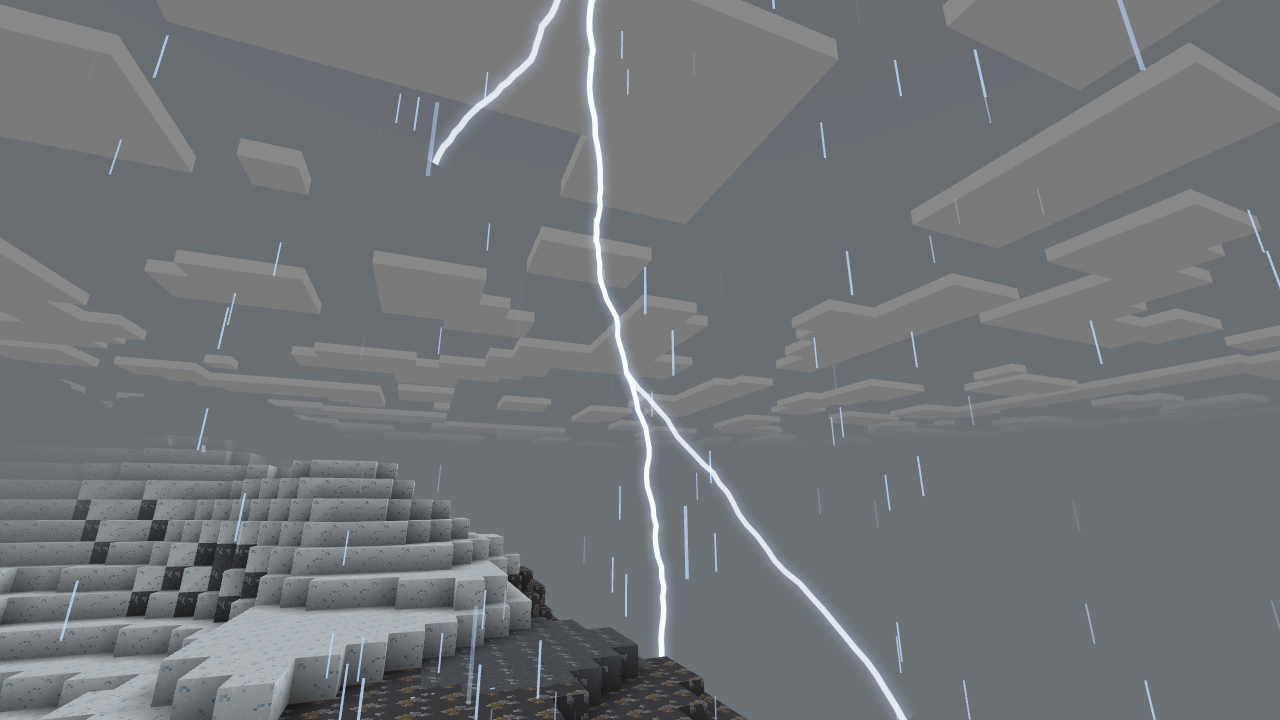
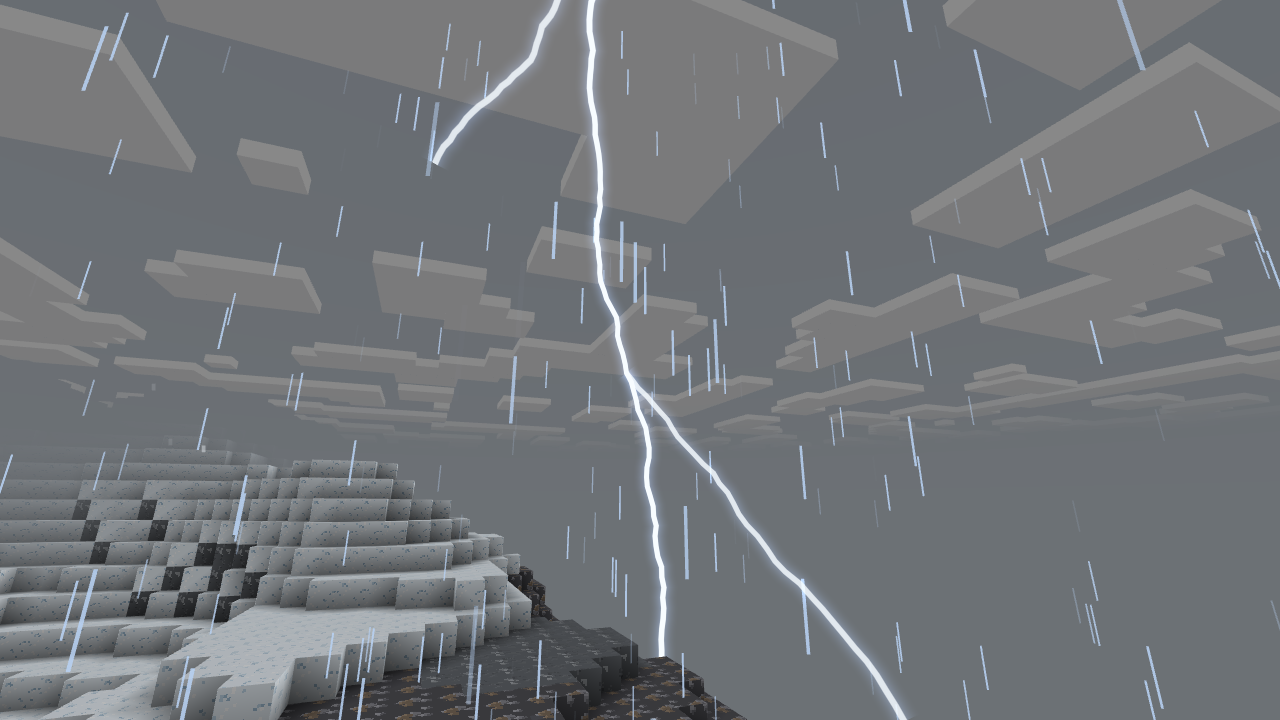
M12c: rain e2e isolates rain with a clear control; cache heightmap texture; evict heightmap columns
Claude-Session: https://claude.ai/code/session_01JQ62XznmM2AD8JKHq9hFqh

diff --git a/tests/e2e/m12.spec.ts b/tests/e2e/m12.spec.ts
@@ -675,32 +675,47 @@ test('M12c weather, rain streaks animation, desert climate check, and thundersto
   });
   await waitForStreamingIdle(page, 120_000);
 
-  await page.evaluate(() => {
+  // Clouds off and the time of day fixed: the only thing that may change between the two frames
+  // is the precipitation. A clear-weather control taken the same way proves that.
+  const stand = await page.evaluate(() => {
     const api = window.__blockcraft!;
-    api.setWeather!('rain');
-    api.setTimeOfDay!(6000);
+    api.setClouds!('off');
     api.look!(0, 0.2); // Look up slightly into falling rain streaks
+    const p = api.getPlayer!().pos;
+    return [p[0], p[1], p[2]] as [number, number, number];
   });
 
-  // Render initial rain frame
-  const rainFrame1 = await assertAndSaveScreenshot({
-    name: 'm12-rain-frame-1',
-    milestone: 'M12c',
-  });
+  // Each frame is taken from the same camera pose: ticking also runs player physics, which would
+  // move the camera and change every pixel of the terrain.
+  const framePair = async (state: 'clear' | 'rain', name: string) => {
+    const place = async (): Promise<void> => {
+      await page.evaluate(async (pos) => {
+        const api = window.__blockcraft!;
+        api.teleport!(pos[0], pos[1], pos[2], 0, 0.2);
+        await new Promise((r) => requestAnimationFrame(() => requestAnimationFrame(r)));
+      }, stand);
+    };
+    await page.evaluate((weather) => {
+      const api = window.__blockcraft!;
+      api.setWeather!(weather);
+      api.setTimeOfDay!(6000);
+    }, state);
+    await place();
+    const first = await assertAndSaveScreenshot({ name: `${name}-1`, milestone: 'M12c' });
+    // Advance 4 ticks (0.2s of falling rain streaks)
+    await page.evaluate(async () => {
+      await window.__blockcraft!.tick!(4);
+    });
+    await place();
+    const second = await assertAndSaveScreenshot({ name: `${name}-2`, milestone: 'M12c' });
+    return diffFraction(first, second);
+  };
 
-  // Advance time by 4 ticks (0.2s of falling rain streaks)
-  await page.evaluate(async () => {
-    const api = window.__blockcraft!;
-    await api.tick!(4);
-    await new Promise((r) => requestAnimationFrame(() => requestAnimationFrame(r)));
-  });
+  const clearDiff = await framePair('clear', 'm12-clear-control');
+  console.log('m12c plains clear-weather control frame diff fraction:', clearDiff);
+  expect(clearDiff).toBeLessThan(0.005); // nothing but rain may move between frames
 
-  const rainFrame2 = await assertAndSaveScreenshot({
-    name: 'm12-rain-frame-2',
-    milestone: 'M12c',
-  });
-
-  const rainDiff = diffFraction(rainFrame1, rainFrame2);
+  const rainDiff = await framePair('rain', 'm12-rain-frame');
   console.log('m12c plains rain frame diff fraction:', rainDiff);
   expect(rainDiff).toBeGreaterThan(0.02); // consecutive frames differ by > 2%
 
@@ -710,18 +725,19 @@ test('M12c weather, rain streaks animation, desert climate check, and thundersto
   expect(plainsStats.weather.activeParticles.rain).toBeGreaterThan(0);
 
   // 2. Desert biome: zero precipitation particles near player (use the stat)
-  await page.evaluate(async () => {
+  const desertBiome = await page.evaluate(async () => {
     const api = window.__blockcraft!;
     const pos = api.locate!('biome', 'desert', [0, 64, 0]);
-    if (pos) {
-      // Step into the interior of the located dry biome (desert/badlands) to avoid border particles
-      const destX = pos[0];
-      const destZ = pos[2] - 50;
-      const groundY = (api.getHeight ? api.getHeight(destX, destZ) : pos[1]) || 70;
-      api.teleport!(destX + 0.5, groundY + 1.6, destZ + 0.5);
-      await api.waitForTerrain!(1);
-    }
+    if (!pos) throw new Error('no desert biome found near the origin');
+    // Step into the interior of the located dry biome (desert/badlands) to avoid border particles
+    const destX = pos[0];
+    const destZ = pos[2] - 50;
+    const groundY = (api.getHeight ? api.getHeight(destX, destZ) : pos[1]) || 70;
+    api.teleport!(destX + 0.5, groundY + 1.6, destZ + 0.5);
+    await api.waitForTerrain!(1);
+    return api.getBiome!(destX, destZ);
   });
+  expect(desertBiome).toBe('desert');
   await waitForStreamingIdle(page, 120_000);
 
   const desertStats = await page.evaluate(async () => {
@@ -736,6 +752,7 @@ test('M12c weather, rain streaks animation, desert climate check, and thundersto
   await page.evaluate(async () => {
     const api = window.__blockcraft!;
     const pos = api.locate!('biome', 'plains', [0, 64, 0]) ?? [0, 80, 0];
+    api.setClouds!('fancy'); // the rain step above turned them off
     api.setWeather!('thunder');
     api.setTimeOfDay!(6000);
     // Hover 25 blocks up so a nearer ridge does not hide the strike point behind it.

diff --git a/src/render/weather.ts b/src/render/weather.ts
@@ -374,7 +374,7 @@ void main() {
 }
 `;
 
-export const PARTICLE_COUNT = 1024;
+export const PARTICLE_COUNT = 2048;
 export const SPLASH_COUNT = 256;
 const HEIGHTMAP_SIZE = 64; // 64x64 blocks around camera
 
@@ -419,6 +419,10 @@ export class WeatherRenderer {
   private readonly heightmapData = new Uint8Array(HEIGHTMAP_SIZE * HEIGHTMAP_SIZE * 4);
   private heightmapOriginX = -32;
   private heightmapOriginZ = -32;
+  // What the texture currently holds, so it is only rebuilt when something it depends on changed
+  private heightmapWorld: World | null = null;
+  private heightmapVersion = -1;
+  private heightmapBuilt = false;
 
   // CPU particle structures for rapid stats evaluation
   private readonly particles: {
@@ -581,6 +585,15 @@ export class WeatherRenderer {
     const gl = this.glWrapper.gl;
     const originX = Math.floor(cameraPos[0]) - HEIGHTMAP_SIZE / 2;
     const originZ = Math.floor(cameraPos[2]) - HEIGHTMAP_SIZE / 2;
+    if (
+      this.heightmapBuilt &&
+      this.heightmapWorld === world &&
+      this.heightmapVersion === weatherManager.heightmap.version &&
+      originX === this.heightmapOriginX &&
+      originZ === this.heightmapOriginZ
+    ) {
+      return;
+    }
     this.heightmapOriginX = originX;
     this.heightmapOriginZ = originZ;
 
@@ -620,6 +633,10 @@ export class WeatherRenderer {
       data,
     );
     gl.bindTexture(gl.TEXTURE_2D, null);
+    this.heightmapWorld = world;
+    // Read after the loop: sampling a column that was not cached yet bumps the version
+    this.heightmapVersion = weatherManager.heightmap.version;
+    this.heightmapBuilt = true;
   }
 
   /**

diff --git a/src/world/weather.ts b/src/world/weather.ts
@@ -35,6 +35,8 @@ export function getPrecipitationType(biome: string, y: number): PrecipitationTyp
  */
 export class WeatherHeightmap {
   private readonly columns = new Map<string, Int16Array>();
+  /** Bumped on every change, so a consumer can tell whether its copy of the heights is stale. */
+  public version = 0;
 
   private columnKey(cx: number, cz: number): string {
     return `${cx},${cz}`;
@@ -42,10 +44,11 @@ export class WeatherHeightmap {
 
   public clear(): void {
     this.columns.clear();
+    this.version++;
   }
 
   public removeColumn(cx: number, cz: number): void {
-    this.columns.delete(this.columnKey(cx, cz));
+    if (this.columns.delete(this.columnKey(cx, cz))) this.version++;
   }
 
   public updateColumn(world: World, cx: number, cz: number): void {
@@ -54,6 +57,7 @@ export class WeatherHeightmap {
       heights = new Int16Array(256);
       this.columns.set(this.columnKey(cx, cz), heights);
     }
+    this.version++;
     const baseX = cx * 16;
     const baseZ = cz * 16;
     for (let lz = 0; lz < 16; lz++) {
@@ -71,6 +75,7 @@ export class WeatherHeightmap {
       const lx = ((x % 16) + 16) % 16;
       const lz = ((z % 16) + 16) % 16;
       heights[lz * 16 + lx] = world.getHeight(x, z);
+      this.version++;
     }
   }
 

diff --git a/tests/unit/m12c-weather.test.ts b/tests/unit/m12c-weather.test.ts
@@ -284,6 +284,29 @@ describe('M12c — Weather', () => {
     });
   });
 
+  describe('WeatherHeightmap cache', () => {
+    it('bumps its version on every change and drops unloaded columns', () => {
+      const world = new World();
+      const col = world.getColumn(0, 0, true)!;
+      col.getOrCreateSection(0)?.fill(BlockRegistry.getInstance().getDefaultStateId('stone')!);
+      const hm = new WeatherHeightmap();
+      const v0 = hm.version;
+      hm.updateColumn(world, 0, 0);
+      const v1 = hm.version;
+      expect(v1).toBeGreaterThan(v0);
+      hm.updateBlock(world, 3, 5, 4);
+      const v2 = hm.version;
+      expect(v2).toBeGreaterThan(v1);
+      hm.updateBlock(world, 300, 5, 4); // column not cached: nothing changes
+      expect(hm.version).toBe(v2);
+      hm.removeColumn(0, 0);
+      const v3 = hm.version;
+      expect(v3).toBeGreaterThan(v2);
+      hm.removeColumn(0, 0); // already gone
+      expect(hm.version).toBe(v3);
+    });
+  });
+
   describe('Stable block state IDs', () => {
     it('records every ice, snow_layer and fire state in the append-only table', () => {
       const registry = BlockRegistry.getInstance();

diff --git a/src/world/world-manager.ts b/src/world/world-manager.ts
@@ -337,6 +337,7 @@ export class WorldManager {
       freeData: (cx, cz) => {
         this.meshAttempts.abandon(`${cx},${cz}`);
         this.world?.removeColumn(cx, cz);
+        weatherManager.heightmap.removeColumn(cx, cz);
       },
       now: () => performance.now(),
       recordSlice: (ms) => frameStats.recordPump(ms),

diff --git a/progress/M12c.md b/progress/M12c.md
@@ -6,7 +6,7 @@ Full verify (this session): typecheck ✓ · lint ✓ · placeholders ✓ · uni
 
 ## Acceptance criteria owned
 
-- [x] E2E: setWeather('rain') in a plains biome, consecutive frames differ by more than 2 % (observed 29.27 %) → tests/e2e/m12.spec.ts › "M12c weather, rain streaks animation, desert climate check, and thunderstorm lightning"
+- [x] E2E: setWeather('rain') in a plains biome, consecutive frames differ by more than 2 % (observed 4.20 % with the camera pose, time of day and clouds fixed, against 0 % for the same procedure under clear weather, which the test also asserts is < 0.5 %) → tests/e2e/m12.spec.ts › "M12c weather, rain streaks animation, desert climate check, and thunderstorm lightning"
 - [x] E2E: desert, zero precipitation particles near the player (use the stat) → tests/e2e/m12.spec.ts › "M12c weather, rain streaks animation, desert climate check, and thunderstorm lightning"
 - [x] Unit: Biome and altitude precipitation choice (dry none, cold/y>=140 snow, rain otherwise) → tests/unit/m12c-weather.test.ts › "Biome and altitude precipitation choice (Decision 2)"
 - [x] Unit: Top-solid heightmap cover rule blocks precipitation below solid blocks → tests/unit/m12c-weather.test.ts › "Top-solid heightmap cover rule (Decision 2)"
@@ -17,7 +17,7 @@ Full verify (this session): typecheck ✓ · lint ✓ · placeholders ✓ · uni
 
 ## Screenshots (docs/screenshots/M12c/)
 
-- m12-storm.png: A flat slate-grey stormy sky with grey blocky cloud slabs. A bright white lightning bolt with a thin blue-white glow runs unbroken from the top edge down to the ground as one smooth, slightly wobbling line with no notches or gaps at the joints; a long fork leaves it near the middle and heads to the lower right, and a short fork near the top left ends in mid-air. The bolt is thinner toward its lower end. Light-blue rain streaks fall across the frame, light grey stone with dark ore specks fills the lower left and dark rock the bottom.
+- m12-storm.png: A flat slate-grey stormy sky with grey blocky cloud slabs. A bright white lightning bolt with a thin blue-white glow runs unbroken from the top edge down to the ground as one smooth, slightly wobbling line with no notches or gaps at the joints; a long fork leaves it near the middle and heads to the lower right, and a short fork near the top left ends in mid-air. The bolt is thinner toward its lower end. Many light-blue rain streaks (about twice as dense as before) fall across the frame, light grey stone with dark ore specks fills the lower left and dark rock the bottom.
 
 ## What was built
 
@@ -68,3 +68,11 @@ Merged `origin/master` (M08a) into this branch. `src/world/weather.ts` uses a ty
 
 - `data/block-state-ids.json` gained `fire` 115, `ice` 116 and `snow_layer[half=bottom]` 117 (the IDs these states already received), with a unit check in `tests/unit/m12c-weather.test.ts` that every weather block state has a table entry.
 - Lightning ribbons rebuilt as continuous mitred strips (see What was built). New unit tests cover the polyline shape and the shared joint vertices.
+
+## Review round 1 fixes
+
+- The rain-animation e2e could not fail on rain: with clear weather the same two frames differed by about 28 %. The cause was not only sky and clouds: ticking also runs player physics and moves the camera. The test now turns clouds off, fixes the time of day, puts the camera back on the same pose before each frame, and takes a clear-weather control first. Observed: clear control 0 %, rain 4.20 % (SPEC threshold 2 %). The first version of this fix showed rain alone gave 1.98 %, so the rain particle count went from 1024 to 2048 (989 active in plains, was about 495). Nothing was loosened.
+- The desert step now throws when no desert is located and asserts the biome at the player is `desert`.
+- The weather heightmap texture is rebuilt only when the camera moves to a new block column, a column or block changes (`WeatherHeightmap.version`) or the world changes, instead of every frame.
+- `WeatherHeightmap.removeColumn` is now called from the column eviction path (`freeData` in `world-manager.ts`).
+- The thunder step of the e2e restores fancy clouds, which the rain step turns off.
